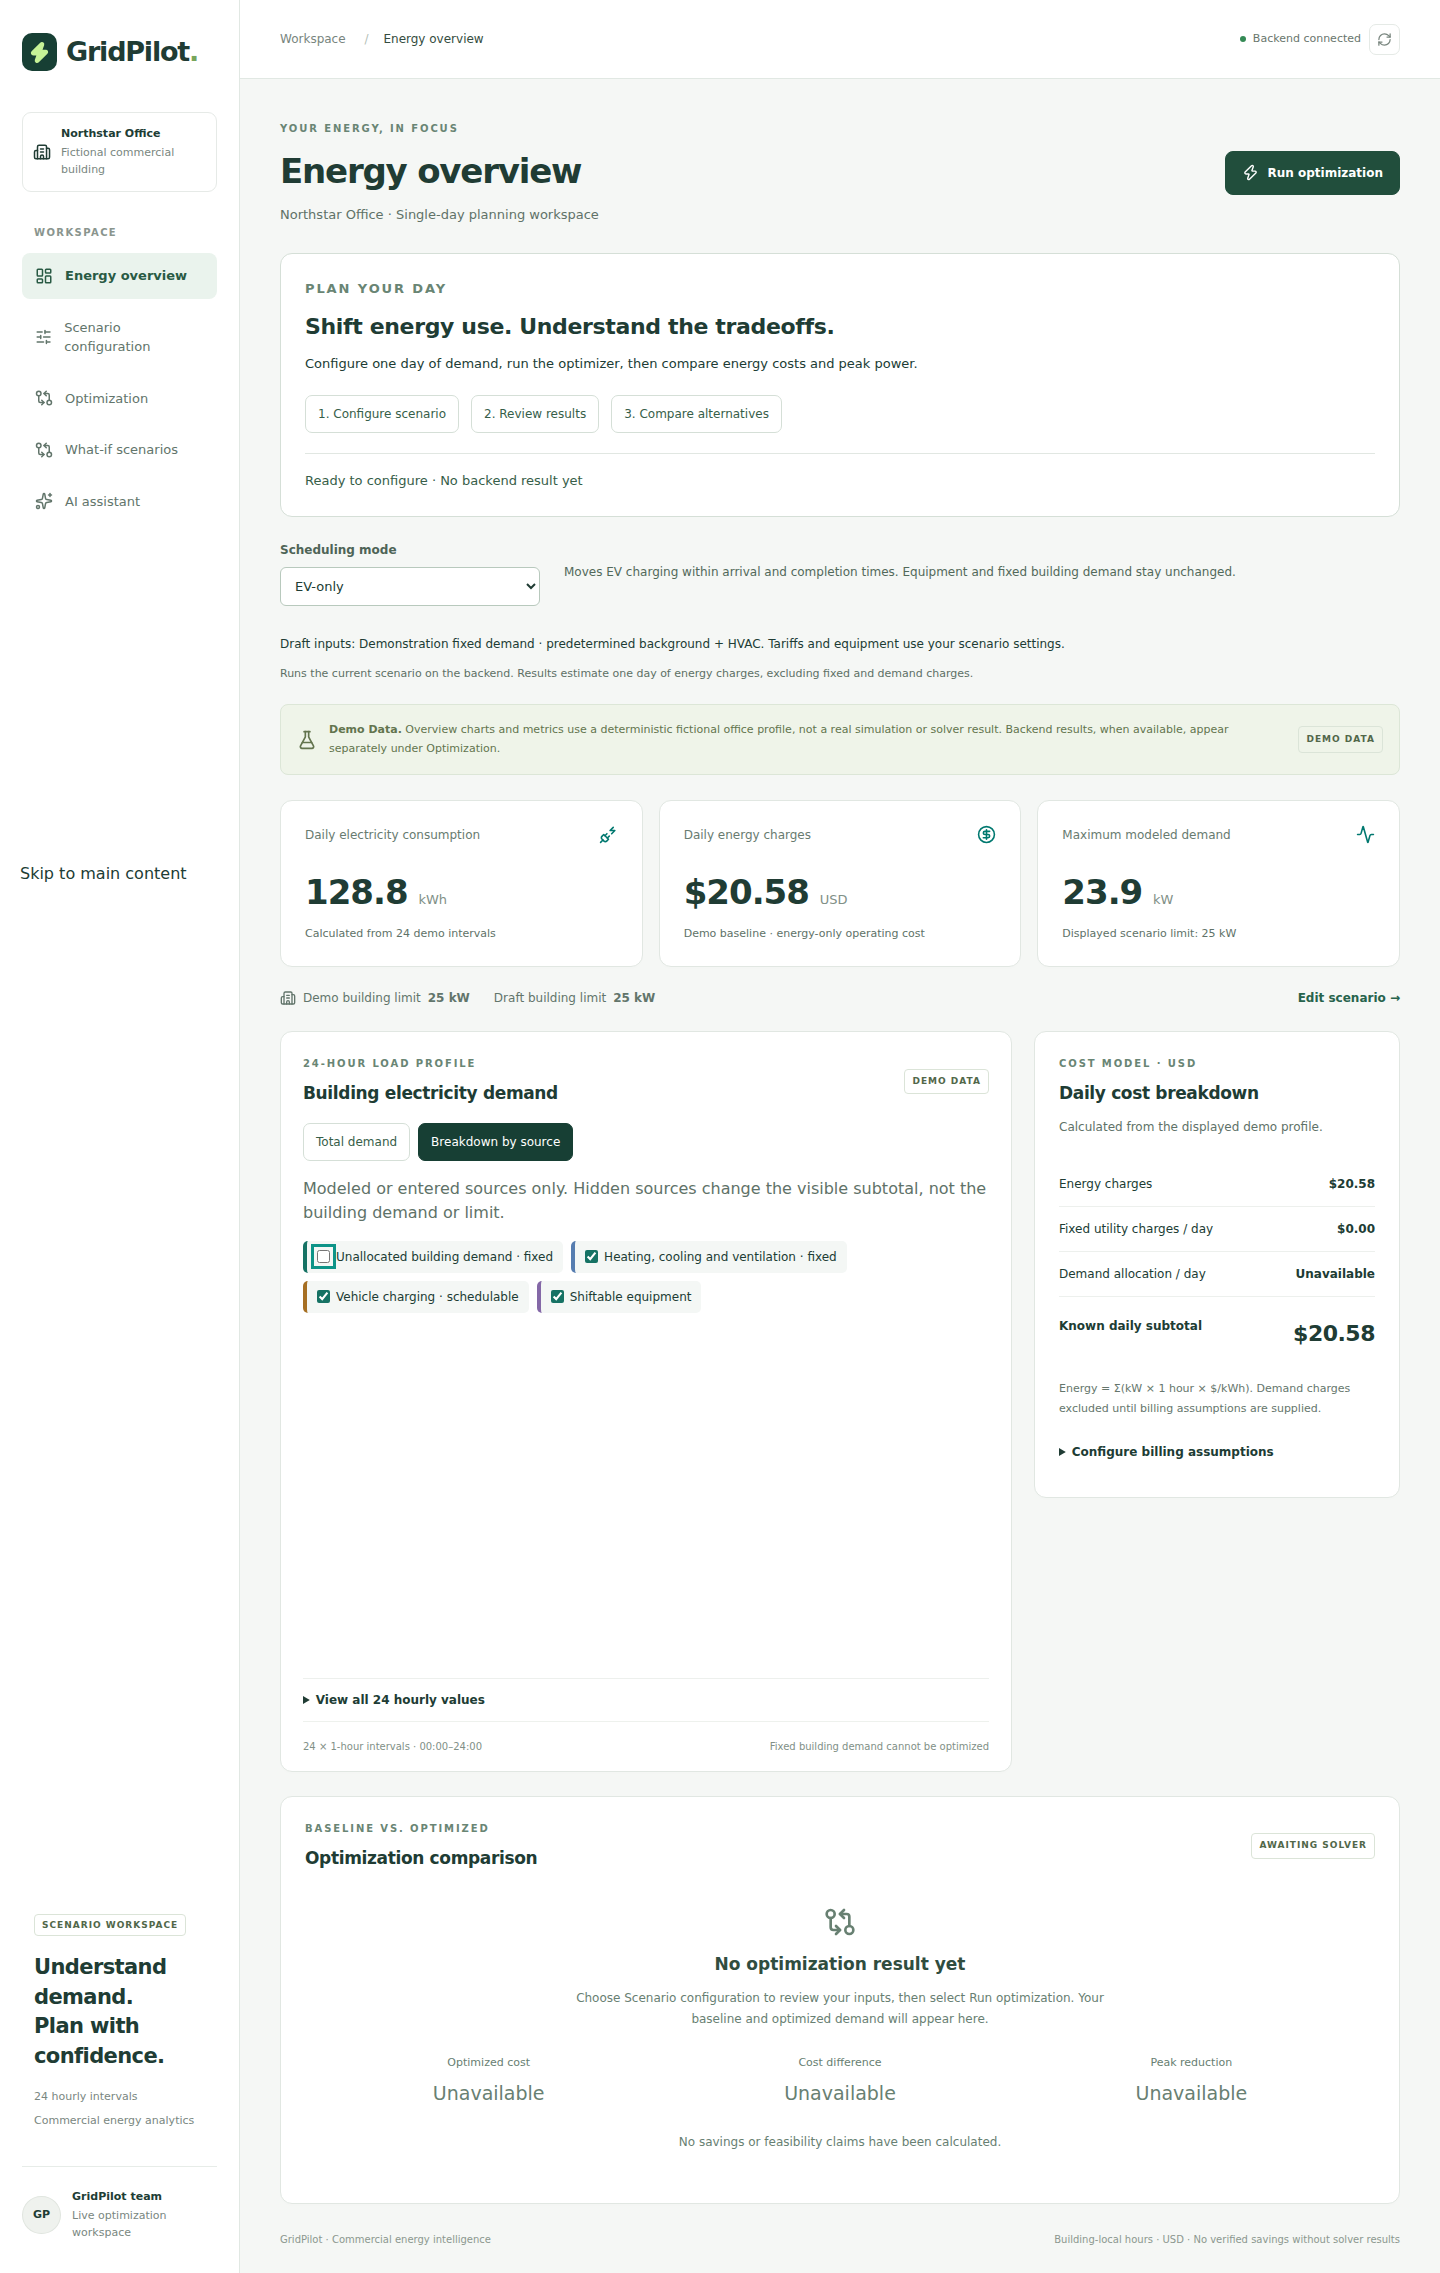
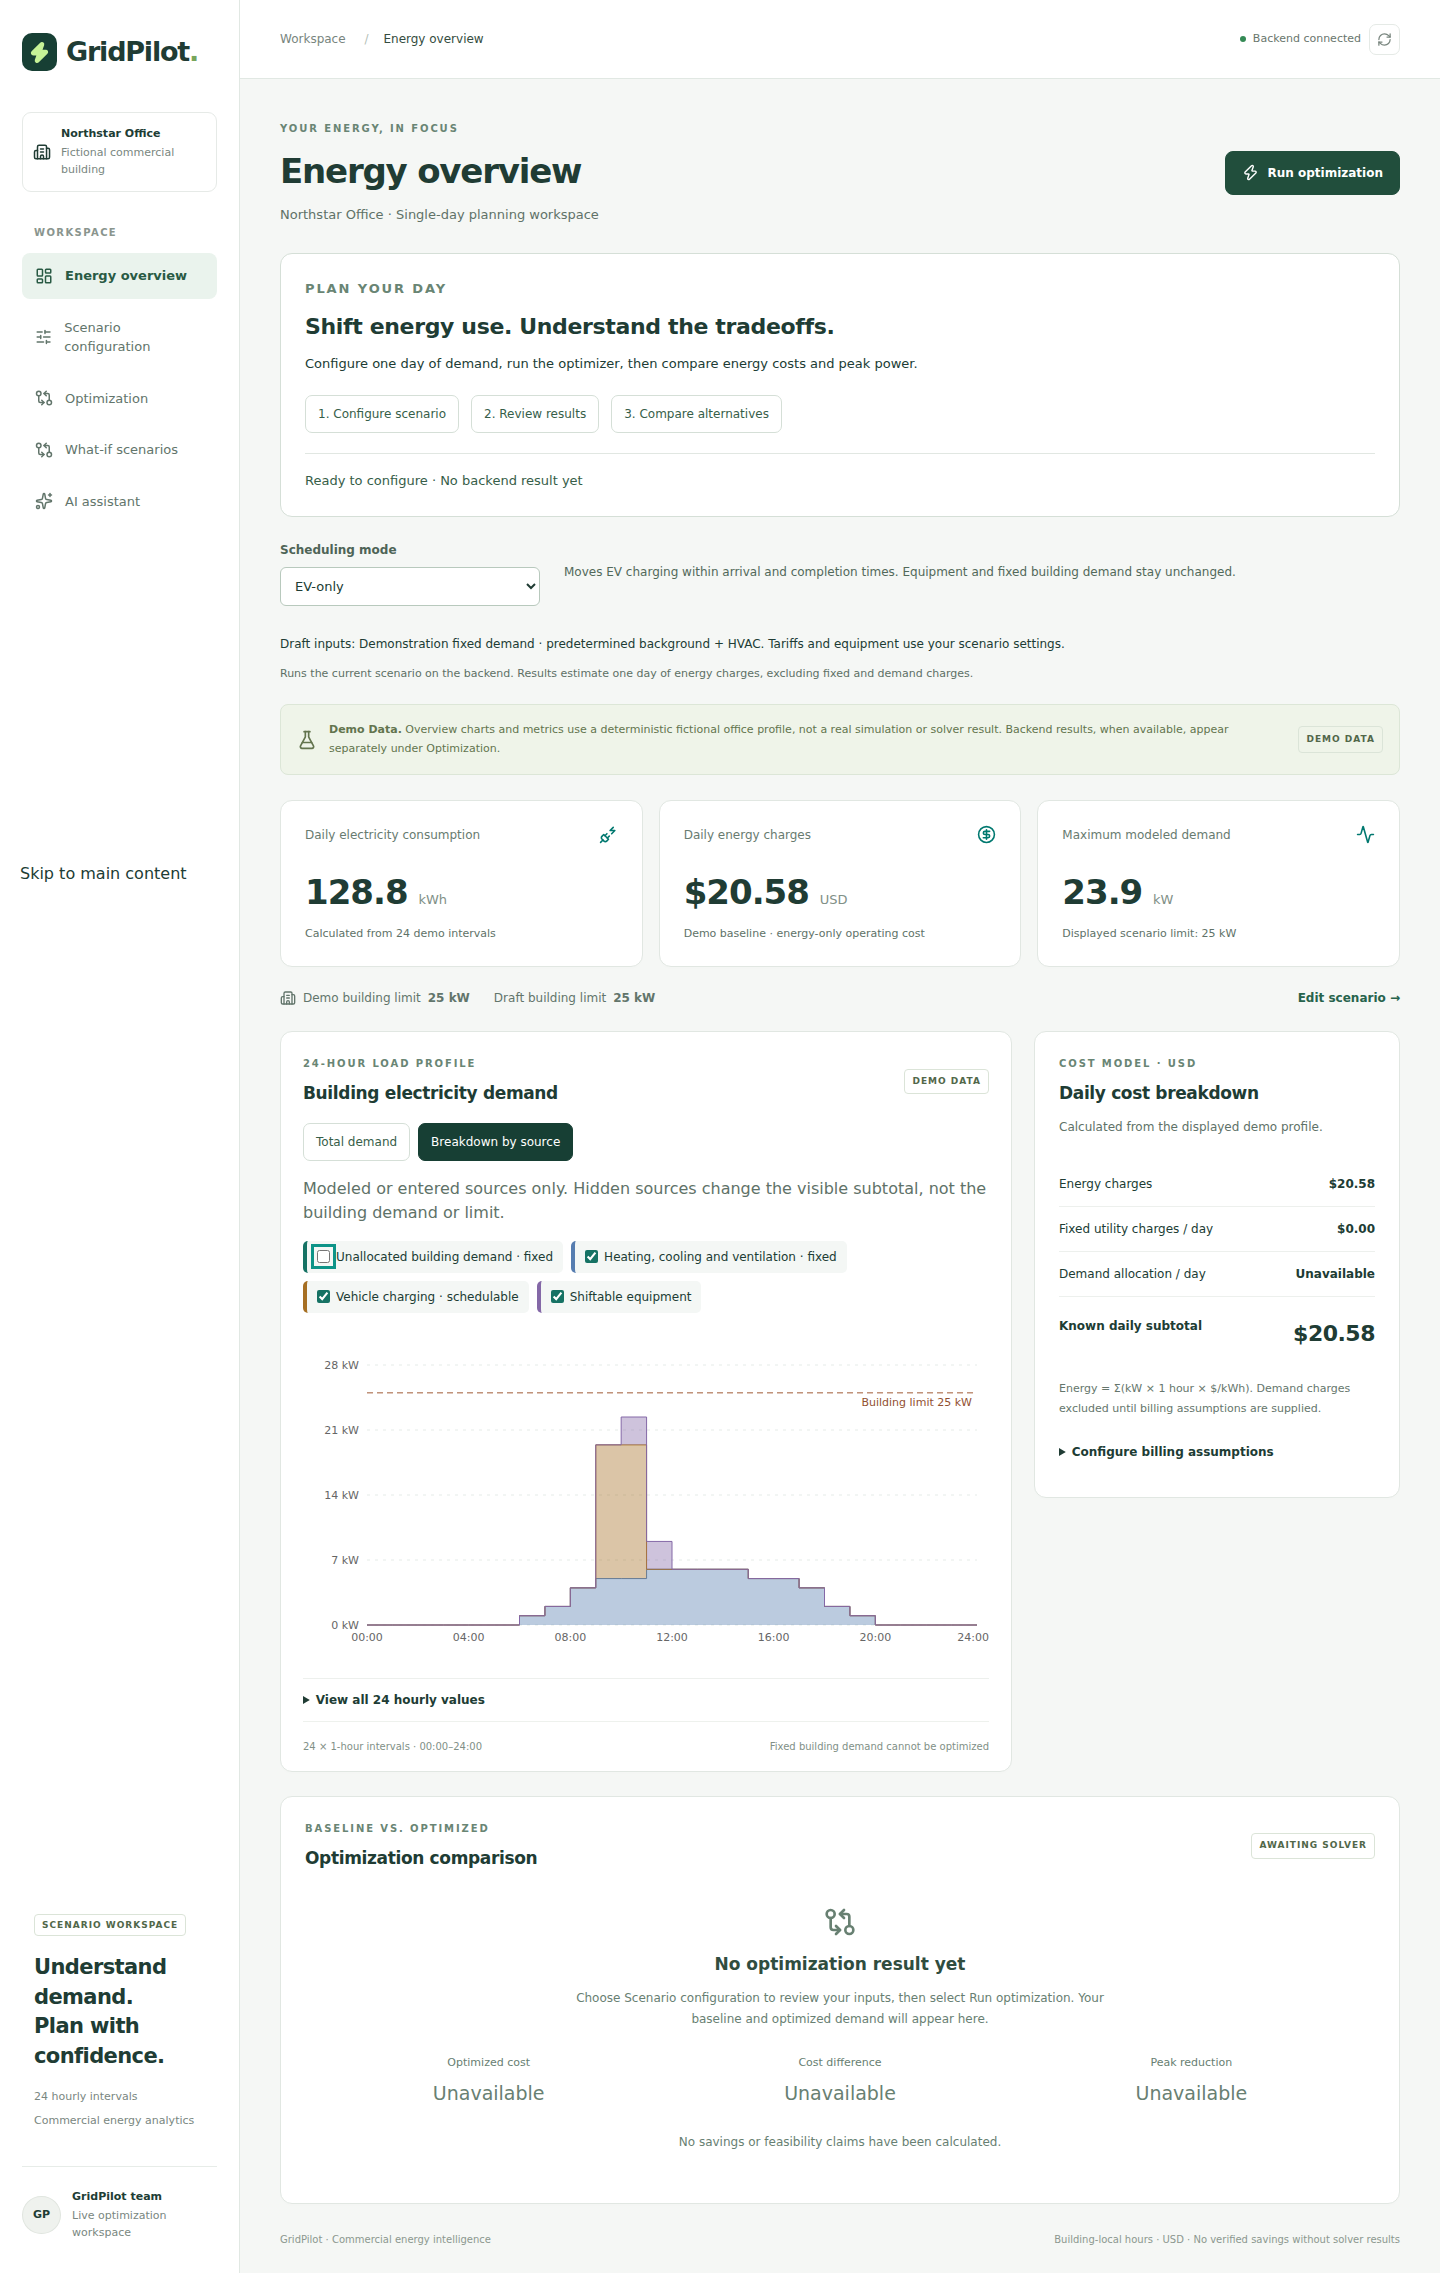
Fix zero-width demand plots and verify rendered chart geometry

Changed region(s): [[0.375, 0.6247, 0.5938, 0.7184]]

diff --git a/frontend/src/index.css b/frontend/src/index.css
@@ -707,5 +707,7 @@ select:focus-visible { outline: 3px solid #0d9488; outline-offset: 3px; }
 .source-actions button { text-align: left; }
 .chart-panel, .comparison, .panel { min-width: 0; }
 .hourly-table caption { text-align: left; padding: 12px 0; }
-.chart .recharts-wrapper, .chart .recharts-legend-wrapper { max-width: 100%; }
+/* Recharts measures its wrapper inside a zero-width overflow-visible element.
+   Constrain only the legend; max-width: 100% on .recharts-wrapper hides the plot. */
+.chart .recharts-legend-wrapper { max-width: 100%; }
 .demand-profile a { text-decoration: underline; text-underline-offset: 2px; }

diff --git a/docs/commercial-demand-dashboard.md b/docs/commercial-demand-dashboard.md
@@ -107,3 +107,30 @@ PRs #20 and #21 are both merged and preserved. Joint scheduling still depends on
 The present result contract supports total-only optimized comparisons. Per-source
 optimized schedules would require an engineering-owned contract extension.
 No merge or deployment is performed.
+
+## Follow-up: blank plot after release
+
+A mobile-overflow rule in the original change applied `max-width: 100%` to
+`.recharts-wrapper`. Recharts puts that measured, fixed-width wrapper inside a
+zero-width, overflow-visible sizing element. The percentage constraint therefore
+collapsed the wrapper and plot to zero width. Its legend and SVG paths still
+existed, which let the original DOM-presence checks pass. This is a presentation
+bug; demo data and numerical calculations were intact.
+
+The fix removes the constraint from the plot wrapper and keeps it on the legend.
+At 1920px viewport width, the reproduced production chart SVG went from 0px to
+886px wide; the demand curve occupies 810px. The mobile viewport remains free of
+horizontal overflow. No React, data, API, optimizer or Meta integration code changes.
+
+The commercial browser suite now calls `scripts/chart-rendering.cjs` before
+capturing the overview, source breakdown, draft preview and backend comparison.
+It checks actual screen-space SVG and curve dimensions and axis ticks, rather than
+just mounted nodes. Restoring the original CSS makes that guard fail; removing it
+passes. The suite was run against `vite preview` serving the production bundle
+at 4176, with the unchanged backend at 8006 (CORS configured for 4176), including
+1440/768/390px viewports. The original custom-demand regression was also rerun
+against that production build. All after screenshots above are refreshed from
+the corrected production build.
+
+[Reproduced blank chart](screenshots/demand-chart-zero-width-before.png) ·
+[Corrected production chart](screenshots/demand-chart-zero-width-after.png).
